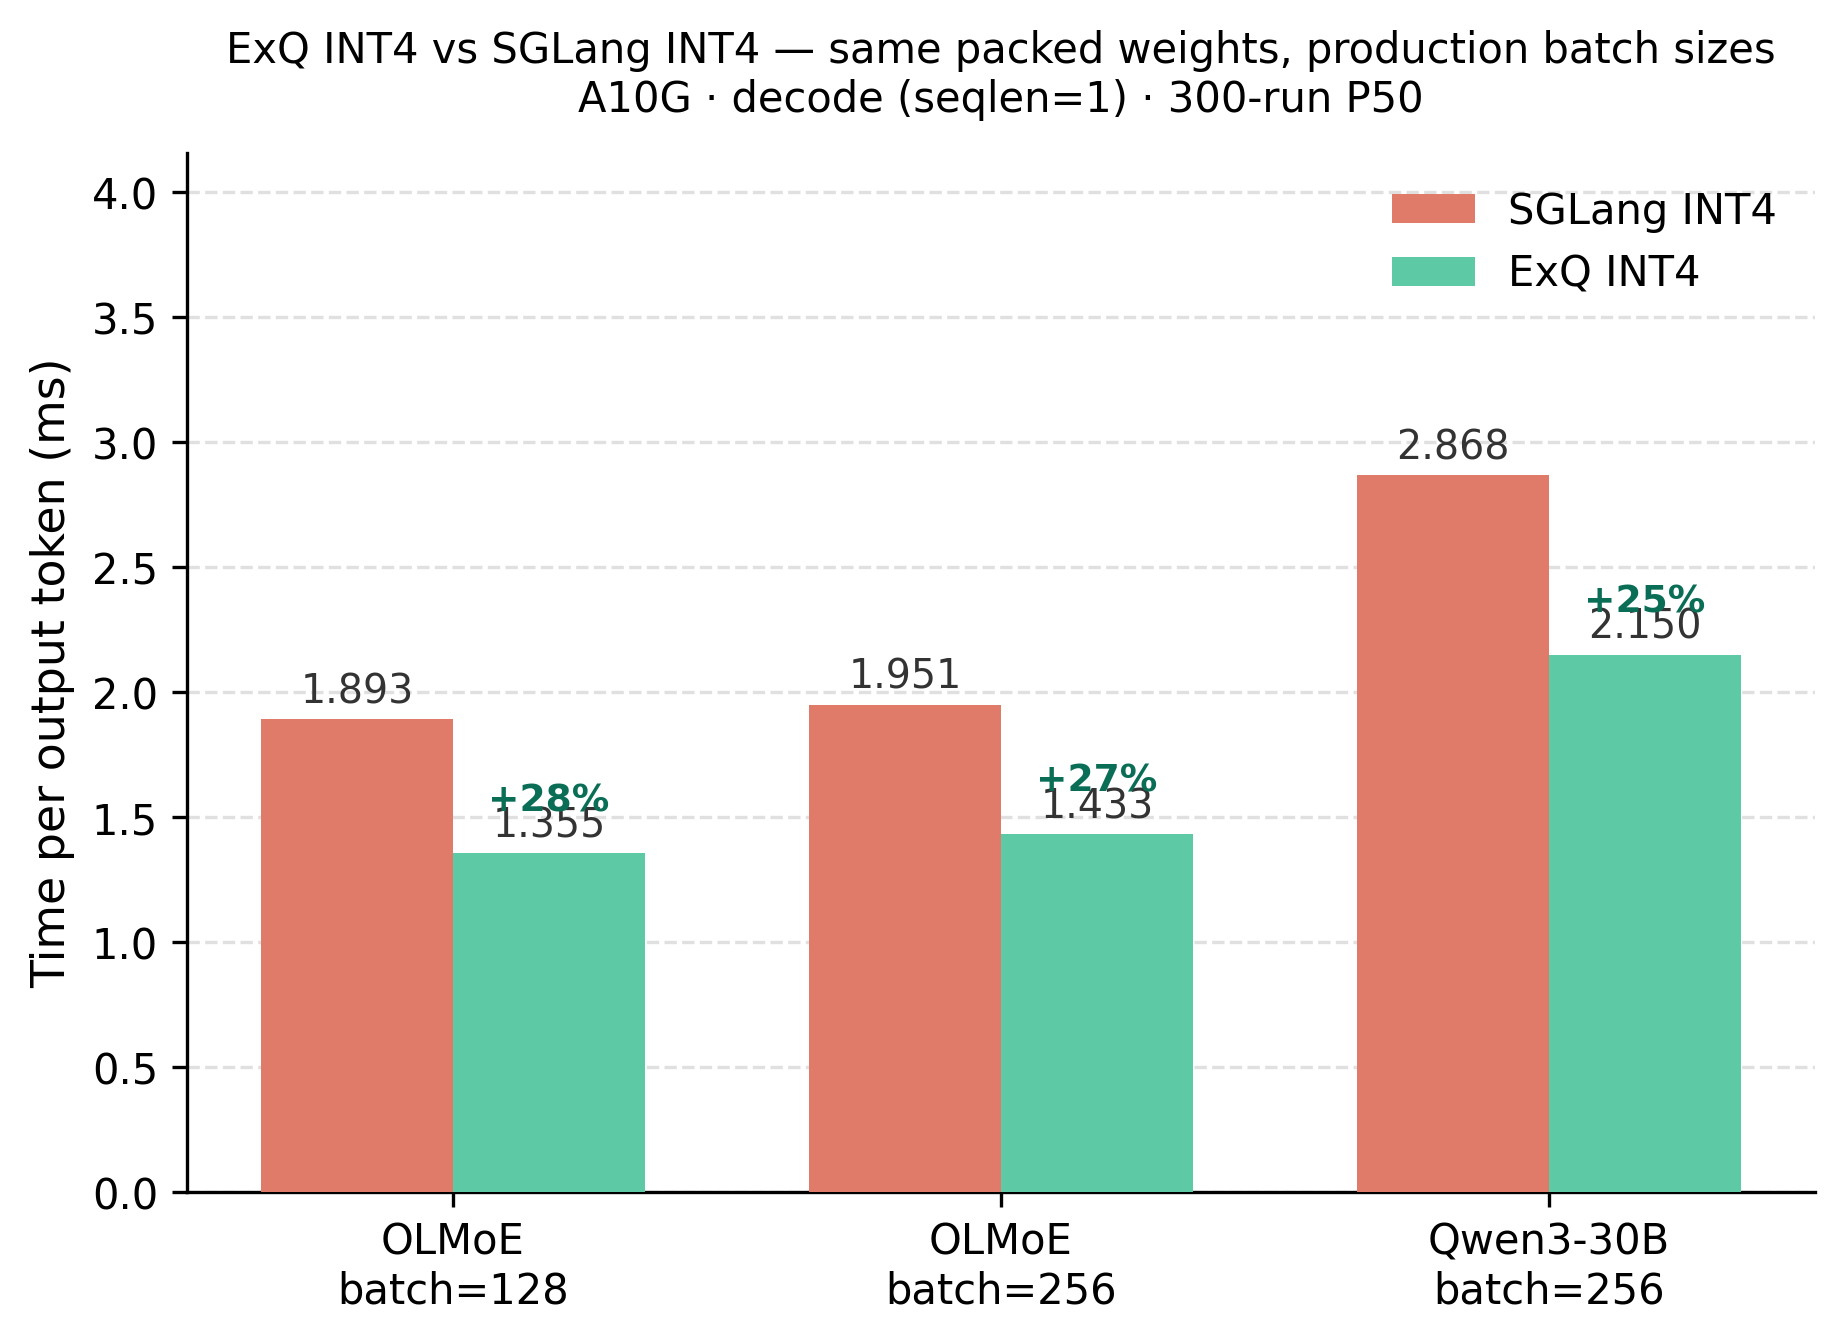
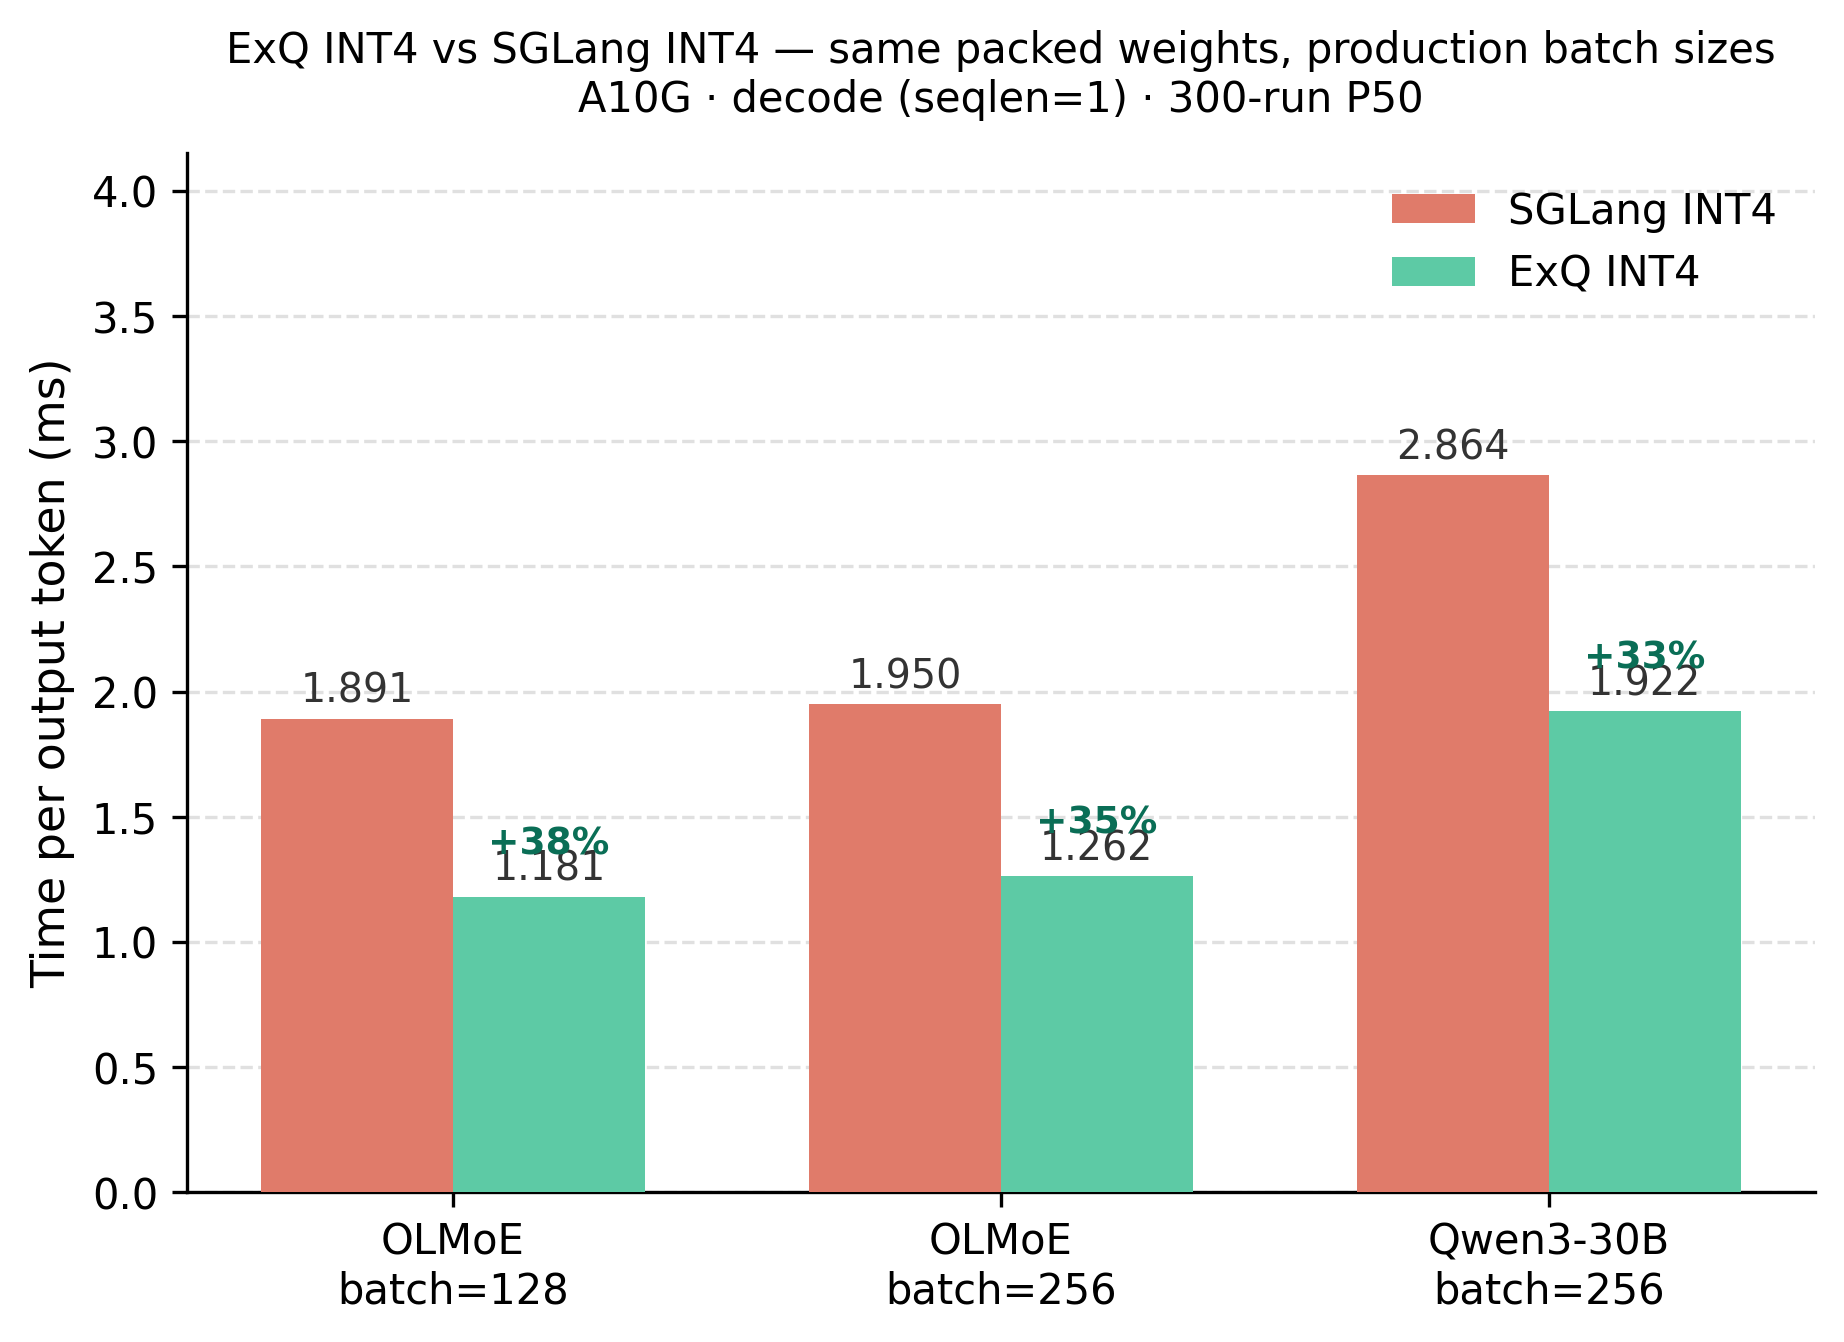
figures: regenerate with updated dispatch results
fig1: OLMoE batch=128 now +38% (was +28%), batch=256 +35% (was +27%)
      Qwen3 batch=256 now +33% (was +25%)

fig5: updated batch sweep shows new cross-over points
      OLMoE: batch≥32 (was ≥64)
      Qwen3: batch≥8 (unchanged, now larger margins)

int4_production_batch.json: updated from int4_vs_sglang_int4.json

diff --git a/figures/fig1_tpot.py b/figures/fig1_tpot.py
@@ -2,9 +2,9 @@
 Fig 1 — Headline result: ExQ INT4 vs SGLang INT4
 
 Fair comparison: same RTN-packed INT4 weights passed to both kernels.
-Shows the batches where ExQ wins (≥128 for OLMoE, ≥256 for Qwen3).
+Shows the batches where ExQ wins most clearly.
 
-Data from results/int4_production_batch.json.
+Data from results/int4_production_batch.json  (updated with optimized dispatch).
 """
 
 import json
@@ -19,8 +19,7 @@ apply_style()
 
 prod = json.load(open("results/int4_production_batch.json"))
 
-# ── Pick the three most compelling operating points ───────────────────────────
-# OLMoE batch=128 (+28%), OLMoE batch=256 (+27%), Qwen3 batch=256 (+25%)
+# ── Operating points: OLMoE batch=128 (+38%), OLMoE batch=256 (+35%), Qwen3 batch=256 (+33%)
 points = [
     ("OLMoE\nbatch=128",
      prod["olmoe"]["batch_sweep"]["128"]["sglang_p50"],
